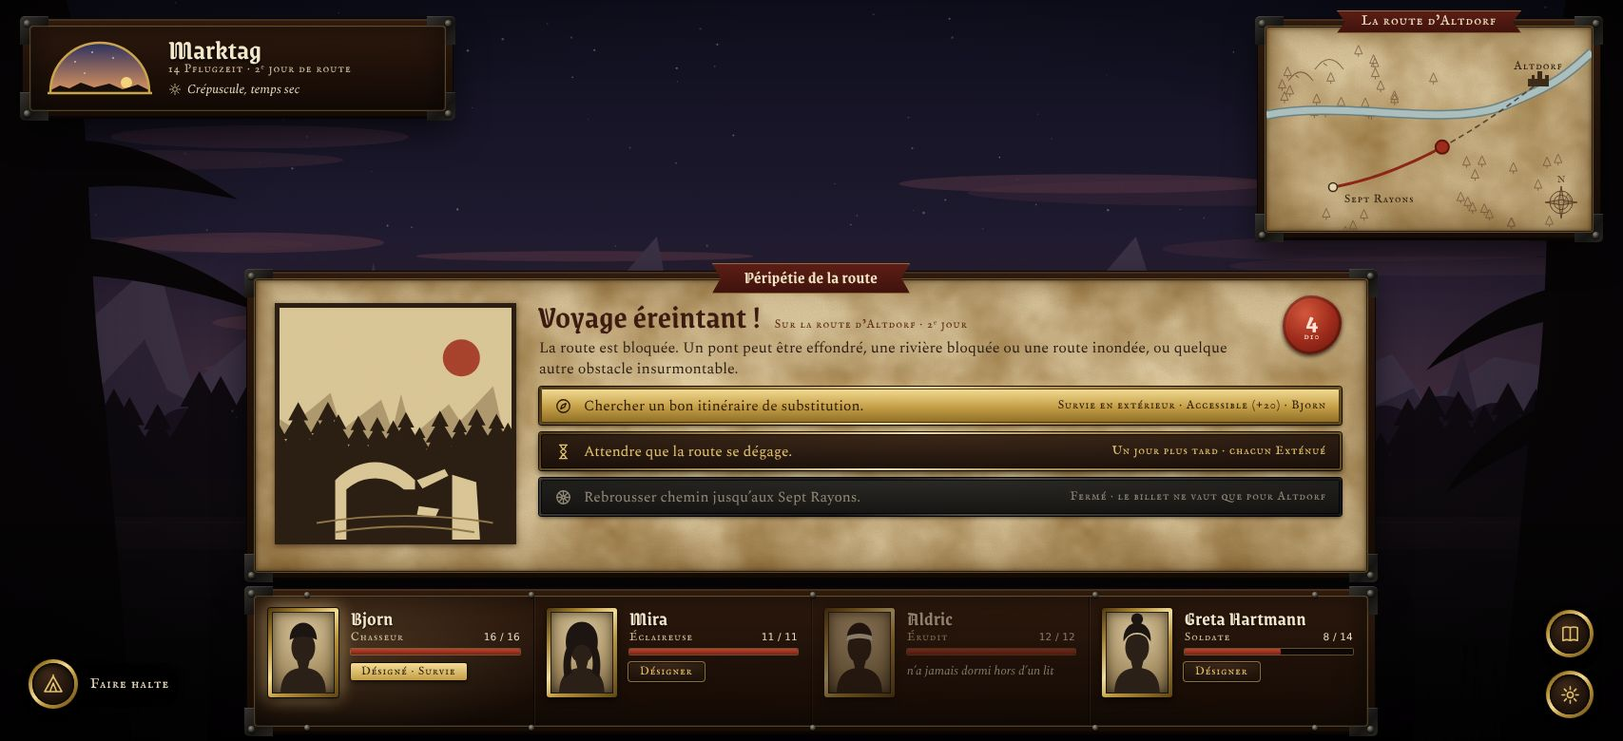
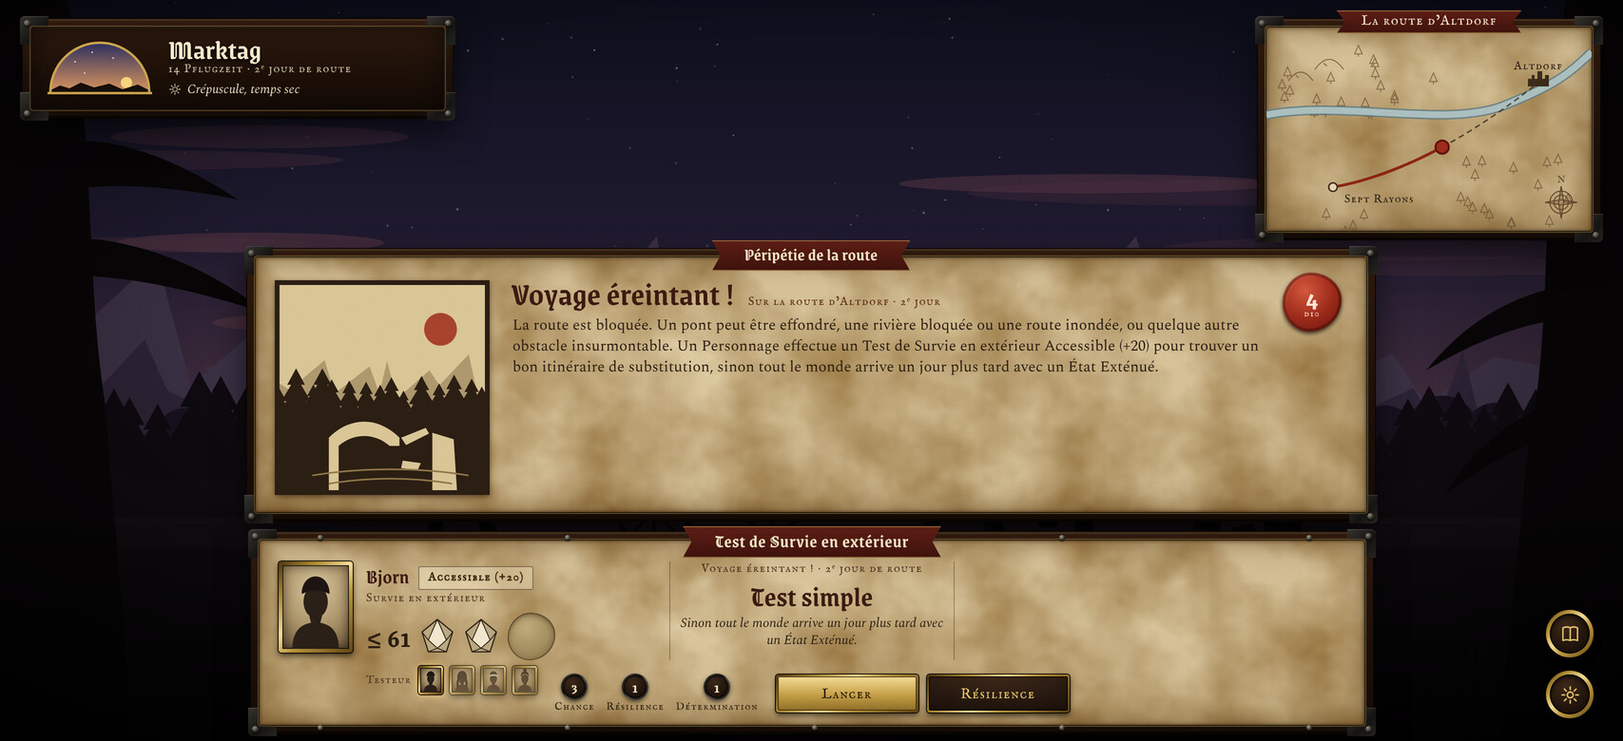
fix(godot): maquettes voyage et outils alignées sur la règle et la charte des gestes (refs #4411)
Claude-Session: https://claude.ai/code/session_01319Eij4YBDVrTGQVfomn4e

diff --git a/hotes/godot/cibles/propositions/sources/voyage/combat-naval.js b/hotes/godot/cibles/propositions/sources/voyage/combat-naval.js
@@ -1,12 +1,15 @@
 /* Le combat naval : l'écran de combat (`combat/`), la grille sur l'eau, les navires en pièces du champ.
-   Test de Manœuvre : MDG 13 l.119 ; Progression : MDG 13 l.68-75 ; Peu maniable : MDG 12 (`src/data/naval-traits.json`) ;
-   Tir de batterie : MDG 14 l.126-130 ; `src/engine/shipNavigation.ts:50`, `src/noyau/actionsDuNoyau.ts:110`. */
+   Test de Manœuvre : MDG 13 l.119 ; en Test d'équipage, ses rôles : MDG 14 l.74-76 ; Mousse par défaut : MDG 14 l.15 ;
+   Progression : MDG 13 l.68-75 ; Peu maniable : MDG 12 (`src/data/naval-traits.json`) ; `src/noyau/shipManeuver.ts:1-11`,
+   `src/noyau/modalArbiter.ts:178` (une rangée par héros en rôle), `src/noyau/combatSlice.ts:2577` (le virage). */
 merDeCombat();
 { const g = el(S, 'g'); for (const [i, a] of [[12, .34], [13, .34], [14, .34], [15, .5]]) { const [x, y] = P(i, 5); el(g, 'path', { d: losange(x, y, A - 3, B - 1.5), fill: '#e2c06a', opacity: a, stroke: '#f3dc93', 'stroke-width': 1.5 }); } }
 { const g = el(S, 'g'); for (let i = 7; i <= 10; i++) for (let j = 8; j <= 9; j++) { const [x, y] = P(i, j); el(g, 'path', { d: losange(x, y, A - 3, B - 1.5), fill: '#b9412c', opacity: .22, stroke: '#b9412c', 'stroke-width': 1 }); } }
 navire(el(S, 'g'), 9.5, 5, {});
 navire(el(S, 'g'), 8.5, 11, { sens: -1, coque: ['#4a4a52', '#2c2c34', '#18181e'], voile: '#16161c' });
 voiles();
+/* les réserves de Mira : celles de `HEROS` (`../lieux-et-nuit/commun.js`), que le socle du combat ne porte pas */
+const MIRA = { chance: 2, resilience: 2, determination: 2 };
 const ui = [];
 ui.push(SYSTEME);
 ui.push(`<div id="round" class="cadre bois" data-piece="round"><div class="fond bois"><div class="n gothique">Round 1</div><div class="t rubrique">tour 2<br>sur 6</div></div>${ferrures}</div>`);
@@ -17,21 +20,12 @@ ui.push(`<div id="ordre" data-piece="ordre">${[
 ui.push(`<div id="journal" data-piece="journal"><div class="tete rubrique ombre">Journal ${rond('journal', 17)}</div>
   ${borneJ('Le combat commence ! (Round 1)')}${vieux('Aldric relève le cap de la Cogue pirate.')}${neuf('La bordée de la Cogue pirate manque la Cogue des aventuriers.')}</div>`);
 ui.push(`<div id="fin" data-piece="fin">${rond('fin', 44)}<span class="rubrique ombre">Fin du tour</span></div>`);
-ui.push(...meuble({
-  genre: 'mira', nom: 'Mira', sous: 'À la barre de la cogue',
-  etat: `${mesure('Blessures', '11 / 11')}${mesure('Coque de la cogue', '50 / 50', 'coque')}${JETONS}`,
-  plaques: `${plaque('Manœuvrer', { armee: true, icone: 'barre' })}${plaque('Bordée', { icone: 'canon', fermee: true })}${plaque('Attaque', { icone: 'attaque' })}`,
-  pastilles: [['course', 'Course'], ['defensive', 'Défensive'], ['competence', 'Compétence'], ['poser', 'Poser au sol'], ['armes', 'Armes']],
-}));
-ui.push(`<div id="apercu" class="parchemin" data-piece="apercu" style="left:1068px;top:268px;width:300px">
-  <div class="tete"><span class="n gothique">Manœuvre</span><span class="c rubrique">La cogue</span></div>
-  <div class="titre rubrique" style="margin-top:8px">Test de Manœuvre · Mira à la barre</div>
-  <table>
-    <tr class="seuil"><td>Voile</td><td>≤ 41</td></tr>
-    <tr><td>Man de la cogue</td><td>−1 DR</td></tr>
-    <tr><td>Peu maniable</td><td>−1 DR</td></tr>
-    <tr><td>Mouvement de la cogue</td><td>5</td></tr>
-  </table>
-  <div class="pied">Les degrés de réussite donnent l’avance, de la moitié du Mouvement à Mouvement +2. Un second clic confirme.</div>
-</div>`);
+const rangee = (genre, nom, role, seuil) => `<div class="rangee">${portrait(genre, 'heros')}<div class="q" data-texte="rangée ${nom}"><b class="gothique">${nom}</b><span class="rubrique">${role}</span></div><span class="seuil">≤ ${seuil}</span></div>`;
+ui.push(bandeauDuJet('Manœuvre', 'avant', `
+  ${camp({ portrait: portrait('mira', 'heros'), nom: 'Mira', carac: 'Timonier · Voile', seuil: 41, modif: 'Rôle essentiel ×2' })}
+  ${reglages('Test d’équipage · la cogue', `<div class="l rubrique">Virage</div>${options([['Bâbord 45°'], ['Cap tenu'], ['Tribord 45°', { armee: true }]])}
+    <div class="enjeux"><span class="modif rubrique">Man de la cogue −1 DR</span><span class="modif rubrique">Peu maniable −1 DR</span></div>`)}
+  <div class="rangees"><div class="t rubrique">Chacun lance son jet, les DR s’additionnent</div>
+    ${rangee('greta', 'Greta Hartmann', 'Capitaine · Commandement', 44)}${rangee('aldric', 'Aldric', 'Navigateur · Orientation', 52)}${rangee('bjorn', 'Bjorn', 'Mousse · Voile ou Ramer', 31)}</div>`,
+  avantLeDe({ heros: MIRA })));
 monter(ui);

diff --git a/hotes/godot/cibles/propositions/sources/voyage/evenement.js b/hotes/godot/cibles/propositions/sources/voyage/evenement.js
@@ -1,5 +1,6 @@
 /* L'événement de route et son issue (cible écrite `ecrites/voyage.md`, « L'événement de route »). La péripétie
-   « Voyage éreintant ! » : LDB 51 l.215 ; `src/noyau/travelFlow.ts:1418`. */
+   « Voyage éreintant ! » : LDB 51 l.215 ; `src/noyau/travelFlow.ts:1418`. Le Test s'ouvre au bandeau du jet, le testeur
+   s'y désigne. */
 const ETAT = document.getElementById('ecran').dataset.etat;
 poser(interieur(D.route({ pont: true })));
 if (ETAT === 'evenement-de-route') assombrir();
@@ -13,25 +14,21 @@ const pieces = [];
 pieces.push(temps({ jour: 'Marktag', date: '14 Pflugzeit · 2ᵉ jour de route', meteo: 'Crépuscule, temps sec' }));
 pieces.push(carteDuTrajet({ titre: 'La route d’Altdorf', de: 'Sept Rayons', vers: 'Altdorf', part: .55 }));
 if (ETAT === 'evenement-de-route') {
-  pieces.push(`<div id="evenement" class="cadre bois" data-piece="evenement"><div class="fond parchemin">
+  pieces.push(`<div id="evenement" class="cadre bois court" data-piece="evenement"><div class="fond parchemin">
     <div class="vignette">${vignette}</div>
     <div class="corps"><div class="tete"><h2 data-texte="titre de l'événement">Voyage éreintant !</h2><span class="rubrique">Sur la route d’Altdorf · 2ᵉ jour</span></div>
-      <p data-texte="texte du livre">La route est bloquée. Un pont peut être effondré, une rivière bloquée ou une route inondée, ou quelque autre obstacle insurmontable.</p>
-      ${plaque('Chercher un bon itinéraire de substitution.', { armee: true, icone: 'route', prix: 'Survie en extérieur · Accessible (+20) · Bjorn' })}
-      ${plaque('Attendre que la route se dégage.', { icone: 'sablier', prix: 'Un jour plus tard · chacun Exténué' })}
-      ${plaque('Rebrousser chemin jusqu’aux Sept Rayons.', { fermee: true, icone: 'roue', prix: 'Fermé · le billet ne vaut que pour Altdorf' })}
+      <p data-texte="texte du livre">La route est bloquée. Un pont peut être effondré, une rivière bloquée ou une route inondée, ou quelque autre obstacle insurmontable. Un Personnage effectue un Test de Survie en extérieur Accessible (+20) pour trouver un bon itinéraire de substitution, sinon tout le monde arrive un jour plus tard avec un État Exténué.</p>
     </div><div class="sceau de"><b>4</b><i>d10</i></div>
   </div><div class="ruban gothique">Péripétie de la route</div>${ferrures}</div>`);
-  pieces.push(bandeau({
-    bjorn: { choisi: true, html: '<span class="attend rubrique">Désigné · Survie</span>' },
-    mira: { html: '<span class="attend sombre rubrique">Désigner</span>' },
-    aldric: { texte: 'n’a jamais dormi hors d’un lit' },
-    greta: { html: '<span class="attend sombre rubrique">Désigner</span>' },
-  }));
+  const bjorn = HEROS.find((h) => h.id === 'bjorn');
+  pieces.push(bandeauDuJet('Test de Survie en extérieur', '', `
+    ${camp({ portrait: portrait('bjorn'), nom: 'Bjorn', carac: 'Survie en extérieur', seuil: 61, modif: 'Accessible (+20)', sous: testeurs(HEROS.map((h) => portrait(h.id))) })}
+    ${reglages('Voyage éreintant ! · 2ᵉ jour de route', '<div class="dr gothique">Test simple</div><p>Sinon tout le monde arrive un jour plus tard avec un État Exténué.</p>')}
+    <div></div>`, avantLeDe({ heros: bjorn })));
 } else {
   pieces.push(recit('Sur la route d’Altdorf · Voyage éreintant !', 'Le pont a cédé sous la crue. Bjorn trouve un gué en amont, et la diligence repasse la rivière avant la nuit.').replace('id="recit"', 'id="recit" class="route"'));
   pieces.push(frise({ de: 'Auberge des Sept Rayons', vers: 'Altdorf', fait: .55, nuits: [.33], reste: 52 }));
-  pieces.push(billet({ x: 300, y: 452, nom: 'Survie en extérieur', qui: 'Bjorn', lignes: [['Seuil', 'Accessible (+20) · 61'], ['Dé', '27'], ['Réussite', '+4 degrés']] }));
+  pieces.push(billet({ x: 300, y: 398, nom: 'Survie en extérieur', qui: 'Bjorn', lignes: [['Seuil', 'Accessible (+20) · 61'], ['Dé', '27'], ['Réussite', '+4 degrés']], pied: chanceDe('bjorn') }));
   pieces.push(bandeau({
     bjorn: { icone: 'route', texte: 'trouve un gué en amont du pont' },
     mira: { texte: 'guide les chevaux dans le courant' },
@@ -39,6 +36,6 @@ if (ETAT === 'evenement-de-route') {
     greta: { texte: 'pousse à la roue, de l’eau jusqu’aux genoux' },
   }));
 }
-pieces.push(retour('Faire halte', 'tente'), coins());
+pieces.push(coins());
 monter(pieces);
-if (ETAT === 'evenement-de-route') marquer('aldric', 'ferme');
+if (ETAT === 'evenement-de-route') clouer(document.getElementById('jet'));

diff --git a/hotes/godot/cibles/propositions/sources/voyage/voyage.css b/hotes/godot/cibles/propositions/sources/voyage/voyage.css
@@ -30,29 +30,23 @@
 #evenement h2{margin:-9px 0 -7px;font-family:"Grenze Gotisch";font-weight:600;font-size:34px;line-height:50px;color:#3a1a10;letter-spacing:.3px;white-space:nowrap}
 #evenement .tete span{font-size:12.5px;color:#5a2a12}
 #evenement .corps>p{margin:4px 80px 6px 0;font-size:16px;line-height:22px;color:#2a1d12}
-#evenement .plaque{flex:none;height:40px;margin-top:8px}
-#evenement .plaque>div{justify-content:flex-start;gap:12px;font-family:"Spectral";font-size:15.5px;letter-spacing:0;padding:0 14px}
-#evenement .plaque .prix{font-family:"Fell SC";font-weight:400;font-size:12.5px;letter-spacing:1px}
 .sceau.de{position:absolute;right:26px;top:16px;width:62px;height:62px;display:flex;flex-direction:column;align-items:center;justify-content:center;color:#ffe2d2}
 .sceau.de b{font-family:"Grenze Gotisch";font-weight:700;font-size:28px;line-height:26px}
 .sceau.de i{font-family:"Fell SC";font-style:normal;font-size:10px;letter-spacing:1px;line-height:10px}
-.heros.ferme{opacity:.5}
 .heros .attend.sombre{color:var(--or);background:radial-gradient(120% 140% at 50% 0%,#3b2718,#1b100a 75%);box-shadow:0 0 0 1px #150d04,0 0 0 2px rgba(226,192,106,.55),0 2px 4px rgba(0,0,0,.6)}
 /* panneau de bord, à droite */
 .bord{position:absolute}
 .bord>.fond{padding:24px 16px 14px}
 .bord .t{font-size:12.5px;color:var(--or);margin-bottom:5px}
-.bord .plaque.grand{height:44px;margin-top:12px}
-.bord .plaque.grand>div{font-size:16.5px}
 /* le lieu d'arrivée : services sur leurs bâtiments, poteau des routes */
 #recit.lieu{width:440px}
 #recit.lieu p{font-size:16px;line-height:23px}
 .hote .gestes{display:flex;gap:8px;margin-top:10px}
 .hote .plaque{flex:none;height:32px}
 .hote .plaque>div{font-size:13px;gap:7px;padding:0 10px}
-#ouvrir{position:absolute;left:1500px;top:262px;width:183px;display:flex;align-items:center;justify-content:flex-end;gap:11px}
-#ouvrir span{font-size:13.5px;color:#f0e2c2;white-space:nowrap}
-#ouvrir .bouton-rond{width:40px;height:40px;padding:3px}
+.ouvrir{position:absolute;left:1500px;top:262px;width:183px;display:flex;align-items:center;justify-content:flex-end;gap:11px}
+.ouvrir span{font-size:13.5px;color:#f0e2c2;white-space:nowrap}
+.ouvrir .bouton-rond{width:40px;height:40px;padding:3px}
 #partir{left:1323px;top:322px;width:360px}
 #partir .fond{padding:20px 14px 6px}
 .depart{display:flex;justify-content:space-between;align-items:center;gap:8px;padding:8px 0 9px}
@@ -67,4 +61,15 @@
 #navire .jauge{margin:1px 0 7px}
 #bord{left:1323px;top:20px;width:360px}
 #bord .jauge{margin:1px 0 7px}
-.jouera.vide{opacity:.5}
+/* l'événement dont le Test s'ouvre au bandeau du jet : le contenant remonte et se resserre */
+#evenement.court{top:262px;height:286px}
+#evenement.court .vignette{width:226px;height:226px}
+/* un choix de l'événement : deux cartes, puis la plaque qui commet */
+#evenement .choix{display:flex;gap:12px;margin-top:10px}
+#evenement .plaque.carte{flex:1;width:auto;height:76px}
+#evenement .plaque.commet{flex:none;width:300px;height:44px;margin-top:12px}
+/* la Chance au pied d'un billet de jet */
+.apercu .chance{display:flex;align-items:center;gap:14px;font-style:normal}
+/* une place de plus à un poste tenu à plusieurs */
+.place{position:absolute}
+.place .medaillon{width:30px;height:30px}

diff --git a/hotes/godot/cibles/propositions/sources/voyage/bord.js b/hotes/godot/cibles/propositions/sources/voyage/bord.js
@@ -1,5 +1,5 @@
 /* Les postes de bord : l'affectation des héros aux rôles du navire, dans la lignée des postes de la halte.
-   Rôles et compétences : MDG 14 l.17-32 ; Moral : MDG 14 l.133-143 ; `src/data/crew-roles.json`, `src/noyau/shipCrew.ts`. */
+   Rôles et compétences : MDG 14 l.17-32 ; rôles à plusieurs : MDG 14 l.37 ; Mousse facultatif : MDG 14 l.15 ; Moral : MDG 14 l.133-143 ; `src/data/crew-roles.json`, `src/noyau/shipCrew.ts`. */
 poser(interieur(D.mer({ navire: false })));
 poser(D.cogue(640, 520, 1.32, {}));
 el(S, 'rect', { width: W, height: H, fill: '#080504', opacity: .34 });
@@ -12,10 +12,12 @@ pieces.push(`<div data-piece="postes">
   ${poste(330, 328, { nom: 'Capitaine', sous: 'Commandement', heros: 'greta', vise: true })}
   ${poste(500, 328, { nom: 'Timonier', sous: 'Voile', heros: 'mira' })}
   ${poste(790, 328, { nom: 'Navigateur', sous: 'Orientation', heros: 'aldric' })}
-  ${poste(960, 328, { nom: 'Artilleur', sous: 'Projectiles', icone: 'canon', ferme: true })}
+  ${poste(960, 328, { nom: 'Artilleur', sous: 'Projectiles (Poudre noire)', icone: 'canon' })}
   ${poste(450, 458, { nom: 'Cuisinier', sous: 'Métier (Cuisinier)', icone: 'marmite' })}
   ${poste(628, 458, { nom: 'Chirurgien', sous: 'Guérison', icone: 'soin' })}
-  ${poste(806, 458, { nom: 'Chansonnier', sous: 'Divertissement', icone: 'chant' })}
+  ${poste(806, 458, { nom: 'Chansonnier', sous: 'Divertissement (Chant)', icone: 'chant' })}
+  ${poste(1010, 458, { nom: 'Repos', sous: 'Aucun rôle', icone: 'sommeil' })}
+  <div class="place" style="left:660px;top:64px">${medaillon('plus', { petit: true })}</div>
 </div>`);
 pieces.push(billet({ x: 60, y: 196, largeur: 300, pointe: 236, nom: 'Capitaine', qui: 'Rôle essentiel', lignes: [['Compétence', 'Commandement'], ['Test d’équipage', 'Progression'], ['Ses degrés', 'comptent double']] }));
 pieces.push(`<div id="bord" class="cadre bois bord" data-piece="le bord"><div class="fond bois">
@@ -26,10 +28,9 @@ pieces.push(`<div id="bord" class="cadre bois bord" data-piece="le bord"><div cl
   <div class="filet"></div><div class="t rubrique">Ce que la journée jouera</div>
   <div class="jouera">${pastille('couronne')}Progression<span class="rubrique">Greta · Commandement</span></div>
   <div class="jouera">${pastille('etoile')}Orientation<span class="rubrique">Aldric · Orientation</span></div>
-  <div class="jouera">${pastille('oeil')}Veille<span class="rubrique">Bjorn · Perception</span></div>
-  <div class="jouera vide">${pastille('canon')}Tir de batterie<span class="rubrique">Aucune pièce à bord</span></div>
-  ${plaque('Reprendre la mer', { armee: true, icone: 'voile', classe: 'grand' })}
+  <div class="jouera">${pastille('cordage')}Entretien<span class="rubrique">Les Mousses · Voile ou Ramer</span></div>
 </div><div class="ruban rubrique">Le bord</div>${ferrures}</div>`);
+pieces.push(ouvrir('Dossier du navire', 'coque', 356));
 pieces.push(bandeau({
   bjorn: { texte: 'Vigie, au nid-de-pie' },
   mira: { texte: 'Timonier, à la barre' },

diff --git a/hotes/godot/cibles/propositions/sources/voyage/fleuve.js b/hotes/godot/cibles/propositions/sources/voyage/fleuve.js
@@ -17,26 +17,26 @@ if (PERIL) {
     <div class="vignette">${vignette}</div>
     <div class="corps"><div class="tete"><h2 data-texte="titre de l'événement">Barrage de débris</h2><span class="rubrique">Sur le Reik · 1ᵉʳ jour</span></div>
       <p data-texte="texte du livre">Là où le cours d’eau est étroit ou l’eau est peu profonde, les débris se sont peut-être agglomérés et forment un barrage qui doit être dégagé avant de continuer.</p>
-      ${plaque('Enfoncer le barrage en se servant de la barge comme d’un bélier.', { armee: true, icone: 'coque', prix: '+10 Dégâts à la coque · 60 / 60' })}
-      ${plaque('Dégager les débris à la main.', { icone: 'sablier', prix: 'Du temps perdu · la coque est épargnée' })}
+      <div class="choix">${carte('Forcer au bélier', '+10 Dégâts à la coque · 60 / 60', { armee: true })}${carte('Déblayer à la main', 'Du temps perdu · la coque est épargnée')}</div>
+      ${plaque('Enfoncer le barrage', { armee: true, icone: 'coque', classe: 'commet' })}
     </div>
   </div><div class="ruban gothique">Péril du fleuve</div>${ferrures}</div>`);
   pieces.push(bandeau({
     bjorn: { texte: 'jauge le courant à la perche' },
-    mira: { texte: 'tient la barge bout au courant' },
+    mira: { texte: 'Barre : tient la barge bout au courant' },
     aldric: { texte: 'compte les troncs pris dans le barrage' },
     greta: { texte: 'a déjà ôté ses bottes' },
   }));
 } else {
   pieces.push(recit('Sur le Reik · Journée de descente', 'Le vent prend la barge par le travers. Mira louvoie et le capte : la voile porte, le courant fait le reste.').replace('id="recit"', 'id="recit" class="route"'));
   pieces.push(frise({ de: 'Grünburg', vers: 'Altdorf', fait: .4, reste: 27 }));
-  pieces.push(billet({ x: 575, y: 428, largeur: 300, nom: 'Navigation', qui: 'Mira · à la barre', lignes: [['Voile', 'Accessible (+20) · 54'], ['Dé', '31'], ['Réussite', '+2 degrés'], ['Vent de côté capté', '+5 % de vitesse']] }));
+  pieces.push(billet({ x: 575, y: 374, largeur: 300, nom: 'Navigation', qui: 'Mira · à la barre', lignes: [['Voile', 'Accessible (+20) · 54'], ['Dé', '31'], ['Réussite', '+2 degrés'], ['Vent de côté capté', '+5 % de vitesse']], pied: chanceDe('mira') }));
   pieces.push(bandeau({
     bjorn: { texte: 'sonde le chenal à la perche' },
-    mira: { icone: 'barre', texte: 'louvoie et capte le vent de côté' },
+    mira: { icone: 'barre', texte: 'Barre : louvoie et capte le vent de côté' },
     aldric: { texte: 'suit les bornes du chemin de halage' },
     greta: { texte: 'veille sur la cargaison, à l’avant' },
   }));
 }
-pieces.push(retour('Faire halte', 'tente'), coins());
+pieces.push(coins());
 monter(pieces);

diff --git a/hotes/godot/cibles/propositions/sources/voyage/arrivee.js b/hotes/godot/cibles/propositions/sources/voyage/arrivee.js
@@ -9,14 +9,11 @@ pieces.push(recit('Arrivée à Auberge des Sept Rayons · Voyage de 5 h.', 'Une 
 pieces.push(`<div class="hote cadre bois" data-piece="service auberge" style="left:520px;top:20px;width:490px"><div class="fond bois"><div class="tete">${medaillon('lit', { petit: true })}<div><div class="n gothique">Auberge</div></div></div>
   <p>« Trois voitures ce soir ! Il reste de la paille au dortoir, et du ragoût tant qu’il y en a. »</p>
   <div class="gestes">${plaque('Entrer', { icone: 'porte' })}${plaque('Dormir', { icone: 'lit' })}${plaque('Recueillir des informations', { icone: 'bulle' })}</div></div>${ferrures}<i class="pointe" style="left:90px;bottom:-8px"></i></div>`);
-pieces.push(`<div class="hote cadre bois" data-piece="service diligences" style="left:1030px;top:176px;width:262px"><div class="fond bois"><div class="tete">${medaillon('roue', { petit: true })}<div><div class="n gothique">Lignes du Rochet</div></div></div>
-  <p>Le cocher ne repart qu’au matin.</p>
-  <div class="gestes">${plaque('Prendre un billet', { icone: 'roue', fermee: true })}</div></div>${ferrures}<i class="pointe" style="left:90px;bottom:-8px"></i></div>`);
 pieces.push(carteDuTrajet({ titre: 'La route d’Altdorf', de: 'Sept Rayons', vers: 'Altdorf', part: 0.001 }).replace('<div class="ruban rubrique">La route d’Altdorf</div>', ''));
-pieces.push(`<div id="ouvrir" data-piece="ouvrir la carte"><span class="rubrique ombre">Ouvrir la carte</span>${rond('loupe', 18)}</div>`);
+pieces.push(ouvrir('Ouvrir la carte', 'loupe', 262));
 pieces.push(`<div id="partir" class="cadre bois" data-piece="partir"><div class="fond bois">
-  ${depart({ nom: 'Altdorf', sous: 'Par la grand-route · 115 km', modes: [['botte', 5], ['roue', 2]] })}
-  ${depart({ nom: 'Auberge La Diligence', sous: 'Retour · 75 km', modes: [['botte', 4], ['roue', 1]] })}
+  ${depart({ nom: 'Altdorf', sous: 'Par la grand-route · 115 km', modes: [['botte', 5], ['roue', 2]], note: 'Diligence : billet en main.' })}
+  ${depart({ nom: 'Auberge La Diligence', sous: 'Retour · 75 km', modes: [['botte', 4], ['roue', 1]], note: 'Diligence : 6/– 3 sc la place, à l’extérieur.' })}
 </div><div class="ruban rubrique">Partir</div>${ferrures}</div>`);
 pieces.push(bandeau({
   bjorn: { texte: 'descend du toit, les reins moulus' },

diff --git a/hotes/godot/cibles/propositions/sources/voyage/voyage.js b/hotes/godot/cibles/propositions/sources/voyage/voyage.js
@@ -206,9 +206,11 @@ const ligne = (lab, val, classe = '') => `<div class="ligne ${classe}"><span cla
 const jauge = (part, classe = '') => `<div class="jauge ${classe}"><i style="width:${Math.round(100 * part)}%"></i></div>`;
 const interieur = (svg) => svg.replace(/^\s*<svg[^>]*>/, '').replace(/<\/svg>\s*$/, '');
 const assombrir = (a = .58) => el(S, 'rect', { width: W, height: H, fill: '#080504', opacity: a });
-/* marque une carte de héros après le montage : `ferme` l'efface, sa raison reste lisible */
-const marquer = (id, classe) => document.querySelectorAll('#bandeau .heros')[HEROS.findIndex((h) => h.id === id)].classList.add(classe);
 /* le départ d'un trajet, sur le poteau des routes : la destination, sa longueur, un moyen par plaque et sa durée */
-const depart = ({ nom, sous, modes, refus }) => `<div class="depart"><div><b>${nom}</b><span class="s rubrique">${sous}</span>${refus ? `<p>${refus}</p>` : ''}</div><div class="modes">${modes.map(([icone, jours, o = {}]) => plaque(`${jours} j`, { icone, ...o })).join('')}</div></div>`;
+const depart = ({ nom, sous, modes, note }) => `<div class="depart"><div><b>${nom}</b><span class="s rubrique">${sous}</span>${note ? `<p>${note}</p>` : ''}</div><div class="modes">${modes.map(([icone, jours, o = {}]) => plaque(`${jours} j`, { icone, ...o })).join('')}</div></div>`;
+/* une pastille qui ouvre un écran posé sur le voyage (carte, dossier du navire, postes de bord), sous la carte du trajet */
+const ouvrir = (libelle, icone, haut) => `<div class="ouvrir" data-piece="ouvrir ${libelle}" style="top:${haut}px"><span class="rubrique ombre">${libelle}</span>${rond(icone, 18)}</div>`;
+/* au pied d'un billet de jet : la Chance qui reste à ceux qui l'ont lancé (LDB 17 l.23-24) */
+const chanceDe = (...ids) => `<div class="chance"><span class="rubrique">Chance</span>${reserves(...ids.map((id) => { const h = HEROS.find((x) => x.id === id); return [h.chance, h.nom.split(' ')[0]]; }))}</div>`;
 // Partagé avec les scripts de page chargés après celui-ci.
-Object.assign(globalThis, { poser, temps, carteDuTrajet, frise, recit, billet, ligne, jauge, interieur, assombrir, marquer, depart });
+Object.assign(globalThis, { poser, temps, carteDuTrajet, frise, recit, billet, ligne, jauge, interieur, assombrir, depart, ouvrir, chanceDe });

diff --git a/hotes/godot/cibles/propositions/sources/voyage/dossier-du-navire.js b/hotes/godot/cibles/propositions/sources/voyage/dossier-du-navire.js
@@ -1,5 +1,6 @@
 /* Le dossier du navire, sur le modèle de la fiche lue en combat (`combat/fiche-au-clic`). Profil de la Cogue :
-   `src/data/vehicles.json` (MDG 12) ; traits : `src/data/naval-traits.json` ; état : `src/noyau/etat.ts:282` ; Moral : MDG 14 l.133-143. */
+   `src/data/vehicles.json` (MDG 12) ; traits : `src/data/naval-traits.json` ; état : `src/noyau/etat.ts:282` ; Moral : MDG 14 l.133-143 ; nom de l'instance :
+   `src/noyau/possessionsFlow.ts:49`. */
 poser(interieur(D.mer({ navire: false })));
 el(S, 'rect', { width: W, height: H, fill: '#06040a', opacity: .5 });
 voiles();
@@ -10,7 +11,7 @@ const etat = (lab, val) => `<div class="etat-n"><span class="rubrique">${lab}</s
 const ui = [];
 ui.push(`<div id="dossier">
 <div id="f-identite" class="cadre bois" data-piece="dossier-identite"><div class="fond parchemin">
-  <div class="tete">${portrait('navire', 'heros')}<div><div class="n gothique">Cogue</div><div class="c rubrique">Navire à voile</div><div class="c rubrique">25 mètres · 300 CO</div></div></div>
+  <div class="tete">${portrait('navire', 'heros')}<div><div class="n gothique">La Sterne</div><div class="c rubrique">Cogue</div><div class="c rubrique">Navire à voile</div><div class="c rubrique">25 mètres · 300 CO</div><div class="renommer">${rond('plume', 13)}<span class="rubrique">Renommer</span></div></div></div>
   <div class="mesure"><div class="tete rubrique"><span>Coque</span><b class="lineale">50 / 50</b></div><div class="vie"><i style="width:100%"></i></div></div>
   <div class="mesure" style="margin-top:14px"><div class="tete rubrique"><span>Moral</span><b class="lineale">75</b></div><div class="vie or"><i style="width:75%"></i></div></div>
   <div class="orne"><i></i><b></b><i></i></div>

diff --git a/hotes/godot/cibles/propositions/sources/voyage/mer.js b/hotes/godot/cibles/propositions/sources/voyage/mer.js
@@ -12,14 +12,14 @@ pieces.push(`<div id="navire" class="cadre bois bord" data-piece="le navire"><di
   ${ligne('Eau douce', '<span class="lin">2 900 L</span>')}
   ${ligne('Vivres de l’équipage', '<span class="lin">735 rations</span>')}
 </div><div class="ruban rubrique">La cogue</div>${ferrures}</div>`);
-pieces.push(`<div id="ouvrir" data-piece="ouvrir le dossier" style="top:452px"><span class="rubrique ombre">Dossier du navire</span>${rond('coque', 18)}</div>`);
+pieces.push(ouvrir('Dossier du navire', 'coque', 452), ouvrir('Postes de bord', 'cordage', 502));
 pieces.push(frise({ de: 'Salzenmund', vers: 'Erengrad', fait: .3, nuits: [.1, .2], reste: 385, unite: 'milles' }));
-pieces.push(billet({ x: 1010, y: 404, largeur: 300, pointe: 236, nom: 'Progression', qui: 'Test d’équipage', lignes: [['Greta, Capitaine', '+2 DR, compte double'], ['Mira, Timonier', '+1 DR'], ['Les marins', '+1 DR'], ['Somme', '+6 DR']] }));
+pieces.push(billet({ x: 1010, y: 350, largeur: 300, pointe: 236, nom: 'Progression', qui: 'Test d’équipage', lignes: [['Greta, Capitaine', '+2 DR ×2 = +4'], ['Mira, Timonier', '+1 DR'], ['Aldric, Navigateur', '+1 DR'], ['Somme', '+6 DR']], pied: chanceDe('greta', 'mira', 'aldric') }));
 pieces.push(bandeau({
   bjorn: { icone: 'oeil', texte: 'Vigie : rien que des mouettes à l’horizon' },
   mira: { icone: 'barre', texte: 'Timonier : vire de bord sans perdre le vent' },
   aldric: { icone: 'etoile', texte: 'Navigateur : fait le point à midi, le cap est bon' },
   greta: { icone: 'couronne', texte: 'Capitaine : tient l’équipage à la manœuvre' },
 }));
-pieces.push(retour('Postes de bord', 'cordage'), coins());
+pieces.push(coins());
 monter(pieces);

diff --git a/hotes/godot/cibles/propositions/sources/voyage/navale.css b/hotes/godot/cibles/propositions/sources/voyage/navale.css
@@ -8,3 +8,16 @@
 .etats{display:grid;grid-template-columns:1fr 1fr;gap:10px 28px;margin-top:22px;padding-top:16px;border-top:1px solid rgba(60,40,20,.45)}
 .etat-n{display:flex;justify-content:space-between;align-items:baseline;font-size:12.5px;color:#4a3420}
 .etat-n b{font-size:15px;color:#2a1d12;font-weight:600}
+#dossier .renommer{display:flex;align-items:center;gap:7px;margin-top:8px;font-size:11.5px;color:#4a3420}
+#dossier .renommer .bouton-rond{width:24px;height:24px;padding:2px}
+/* la manœuvre en Test d'équipage : le virage au centre, une rangée par héros en rôle */
+#jet .reglages .l{font-size:12px;color:#4a3420;margin:5px 0 4px}
+#jet .reglages .enjeux{display:flex;justify-content:center;gap:7px;margin-top:3px}
+.rangees{padding-left:16px}
+.rangees .t{font-size:11.5px;color:#4a3420;margin-bottom:4px}
+.rangee{display:flex;align-items:center;gap:9px;height:31px}
+.rangee .portrait{flex:none;width:26px;height:30px;padding:2px}
+.rangee .q{flex:1;min-width:0;display:flex;align-items:baseline;gap:8px;white-space:nowrap;overflow:hidden}
+.rangee b{font-size:16px;font-weight:600;color:#3a1a10}
+.rangee .q span{font-size:10.5px;color:#4a3420}
+.rangee .seuil{flex:none;font-family:"Grenze Gotisch";font-weight:600;font-size:19px;color:#2a1d12}

diff --git a/hotes/godot/cibles/propositions/sources/outils/coop.js b/hotes/godot/cibles/propositions/sources/outils/coop.js
@@ -19,7 +19,7 @@ const table = () => `<svg viewBox="0 0 640 520"><defs>
   <g fill="#3a2414" stroke="#150c07" stroke-width="1.500"><circle cx="246" cy="160" r="13"/><circle cx="404" cy="176" r="13"/></g><g fill="#7a4a1c"><circle cx="246" cy="160" r="8"/><circle cx="404" cy="176" r="8"/></g>
 </svg>`;
 const siege = (x, y, { nom, sous, heros = [], vous = false, absent = false, vide = false }) => vide
-  ? `<div class="siege vide" style="left:${x}px;top:${y}px"><div class="q">${medaillon('plus', { petit: true, ferme: true })}<div><b>Un siège à pourvoir</b></div></div></div>`
+  ? `<div class="siege vide" style="left:${x}px;top:${y}px"><div class="q"><div><b>Un siège à pourvoir</b></div></div></div>`
   : `<div class="siege bois ${vous ? 'vous' : ''} ${absent ? 'absent' : ''}" style="left:${x}px;top:${y}px">
       <div class="q">${absent ? sceau('reseau', 15) : medaillon('personnage', { petit: true })}<div><b class="gothique" data-texte="siège ${nom}">${nom}</b><span class="rubrique">${sous}</span></div></div>
       <div class="tient">${heros.length ? heros.map((h) => portrait(h)).join('') : '<i>Aucun héros</i>'}</div></div>`;

diff --git a/hotes/godot/cibles/propositions/sources/outils/compendium.js b/hotes/godot/cibles/propositions/sources/outils/compendium.js
@@ -22,7 +22,7 @@ monter([
   `<div id="signets" data-piece="signets">${FAMILLES.map((n) => `<div class="signet ${n === 'Compétences' ? 'ouvert' : ''}"><span class="rubrique">${n}</span></div>`).join('')}</div>`,
   `<div id="registre" data-piece="registre"><div class="tranche"></div>
      <div class="feuille g parchemin">
-       <div class="tete"><span class="dom gothique" data-texte="catégorie">Talents</span><span class="sous rubrique">Compétences · 187 entrées</span></div>
+       <div class="tete"><span class="dom gothique" data-texte="catégorie">Talents</span><span class="sous rubrique">Famille Compétences · 187 talents</span></div>
        <div class="filet-l"><i></i></div>
        ${TALENTS.map((n) => `<div class="entree ${n === 'Négociateur' ? 'pointee' : ''}"><span>${n}</span><em class="lin">LDB p. ${n === 'Menaçant' ? 141 : n === 'Oreille absolue' ? 143 : 142}</em></div>`).join('')}
        <div class="pied">${rond('gauche', 16)}<span class="folio rubrique">Feuillet 9 sur 15</span><span class="suite"><span class="rubrique">Feuillet suivant</span>${rond('droite', 16)}</span></div>
